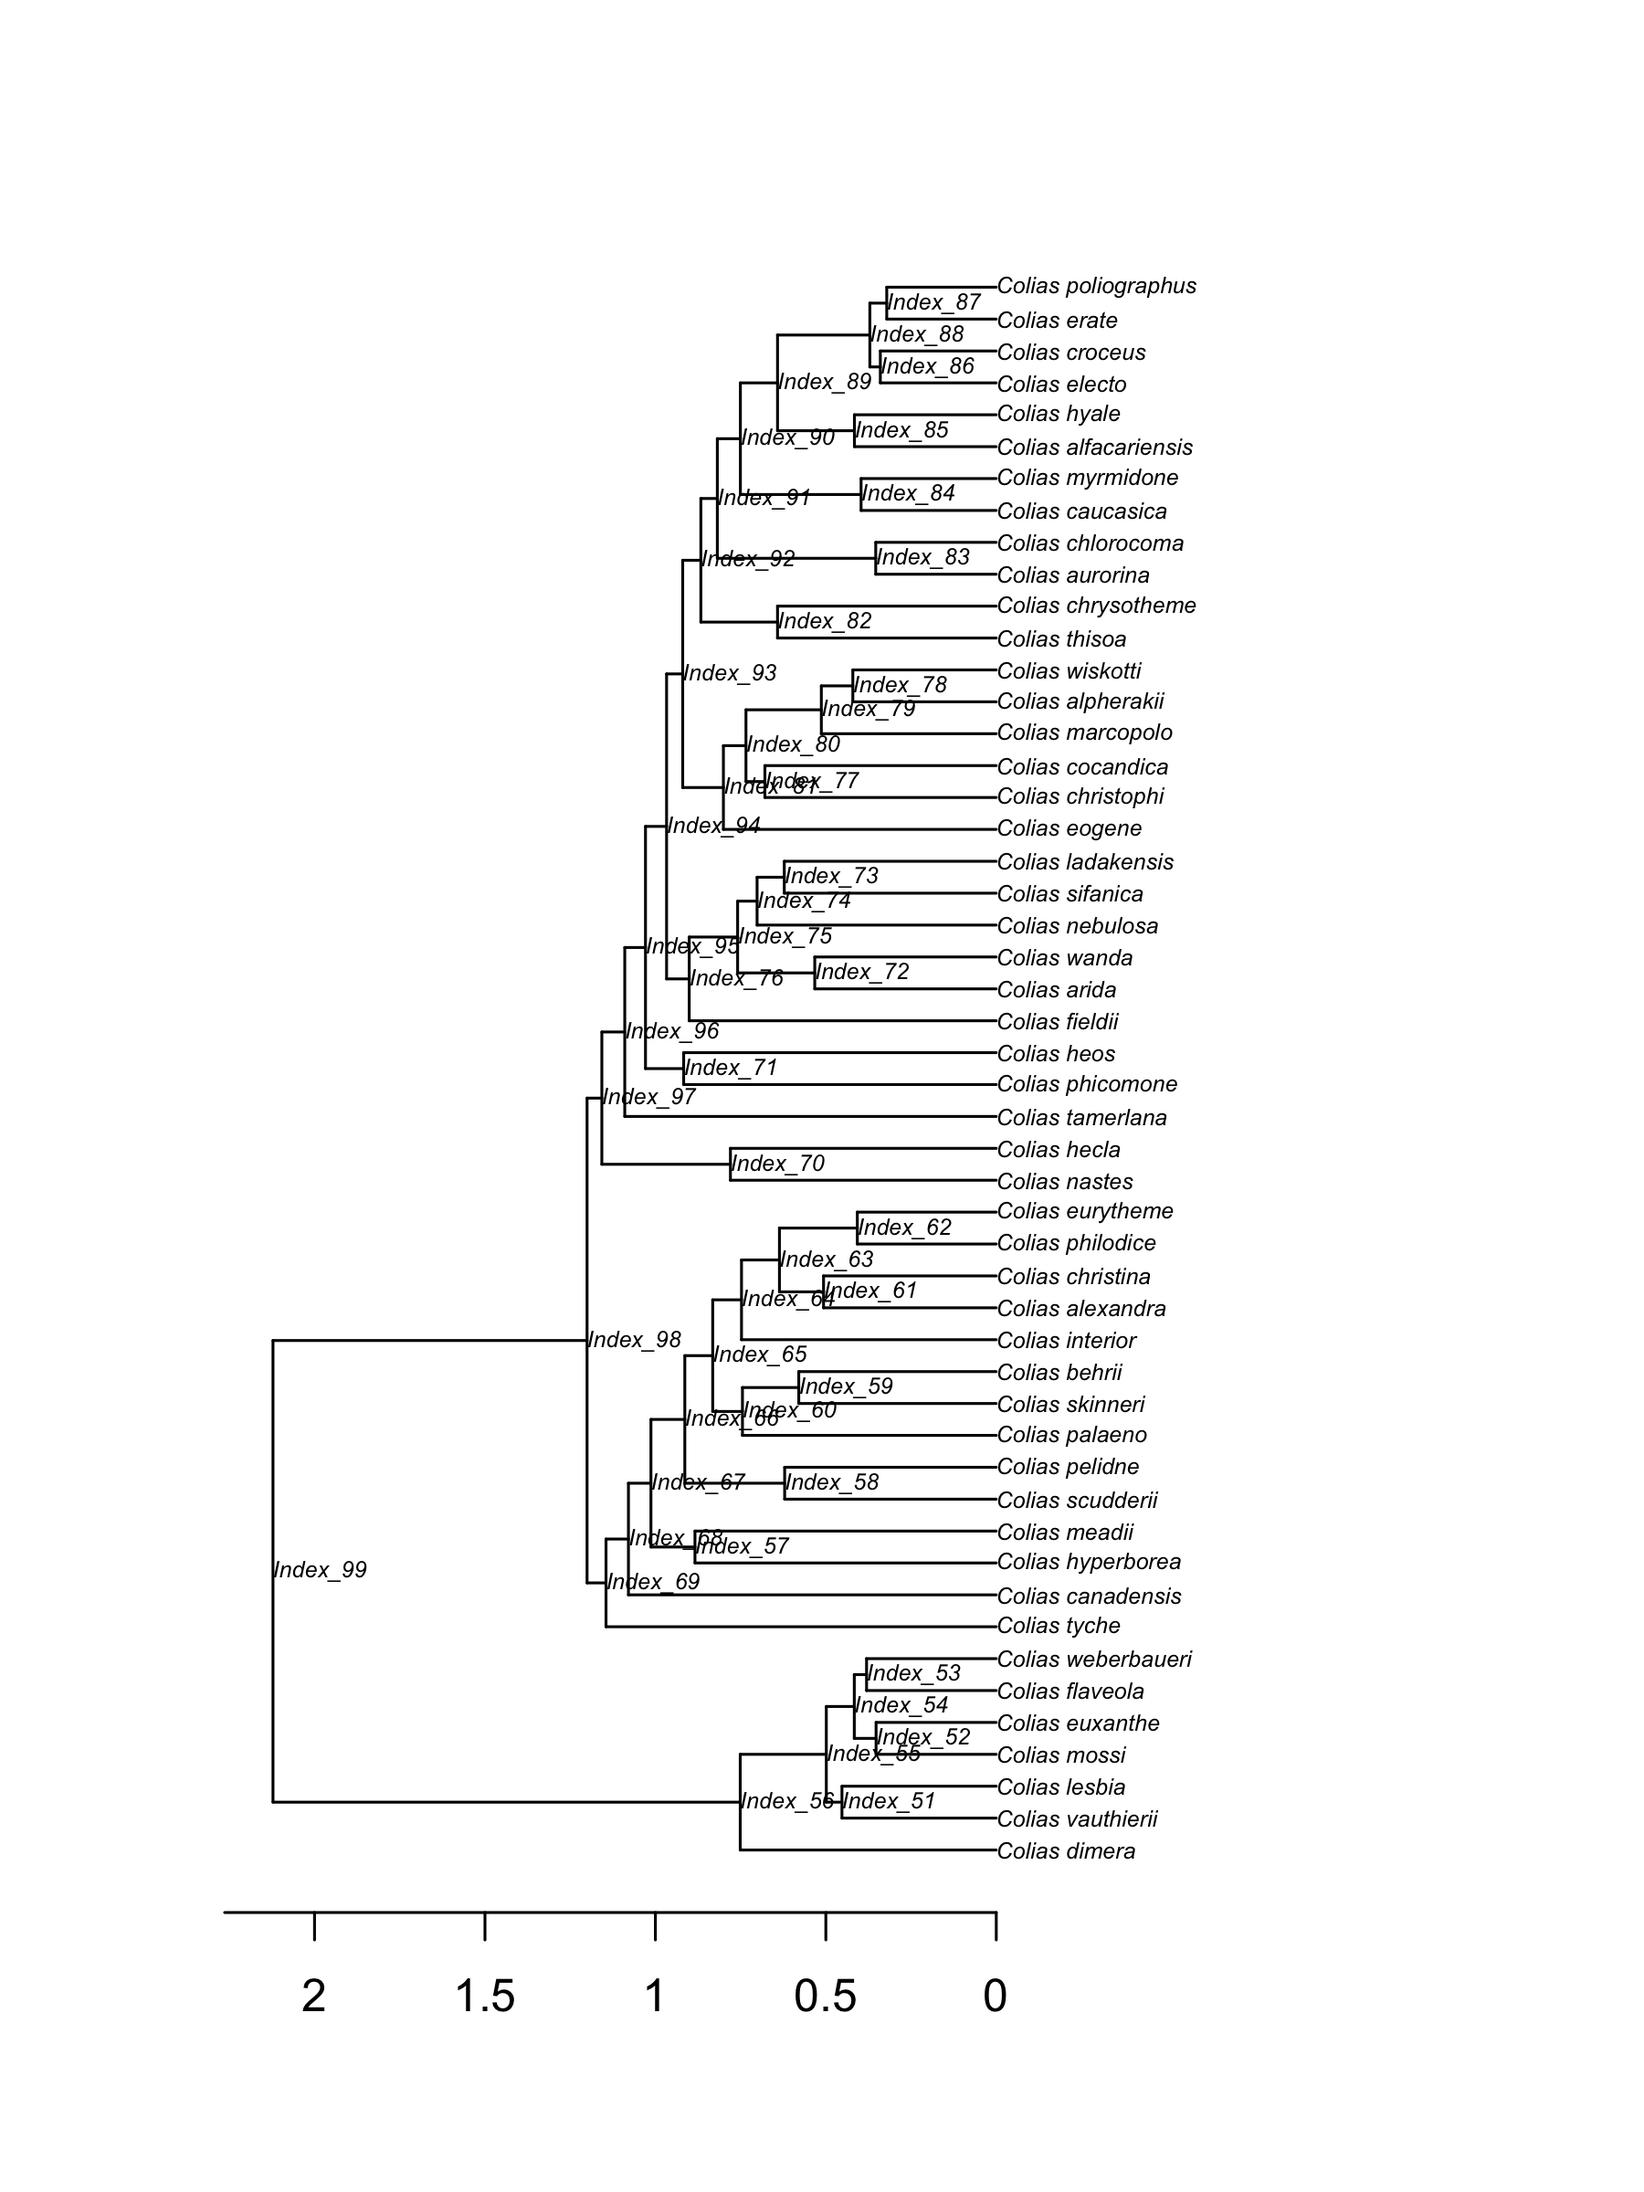
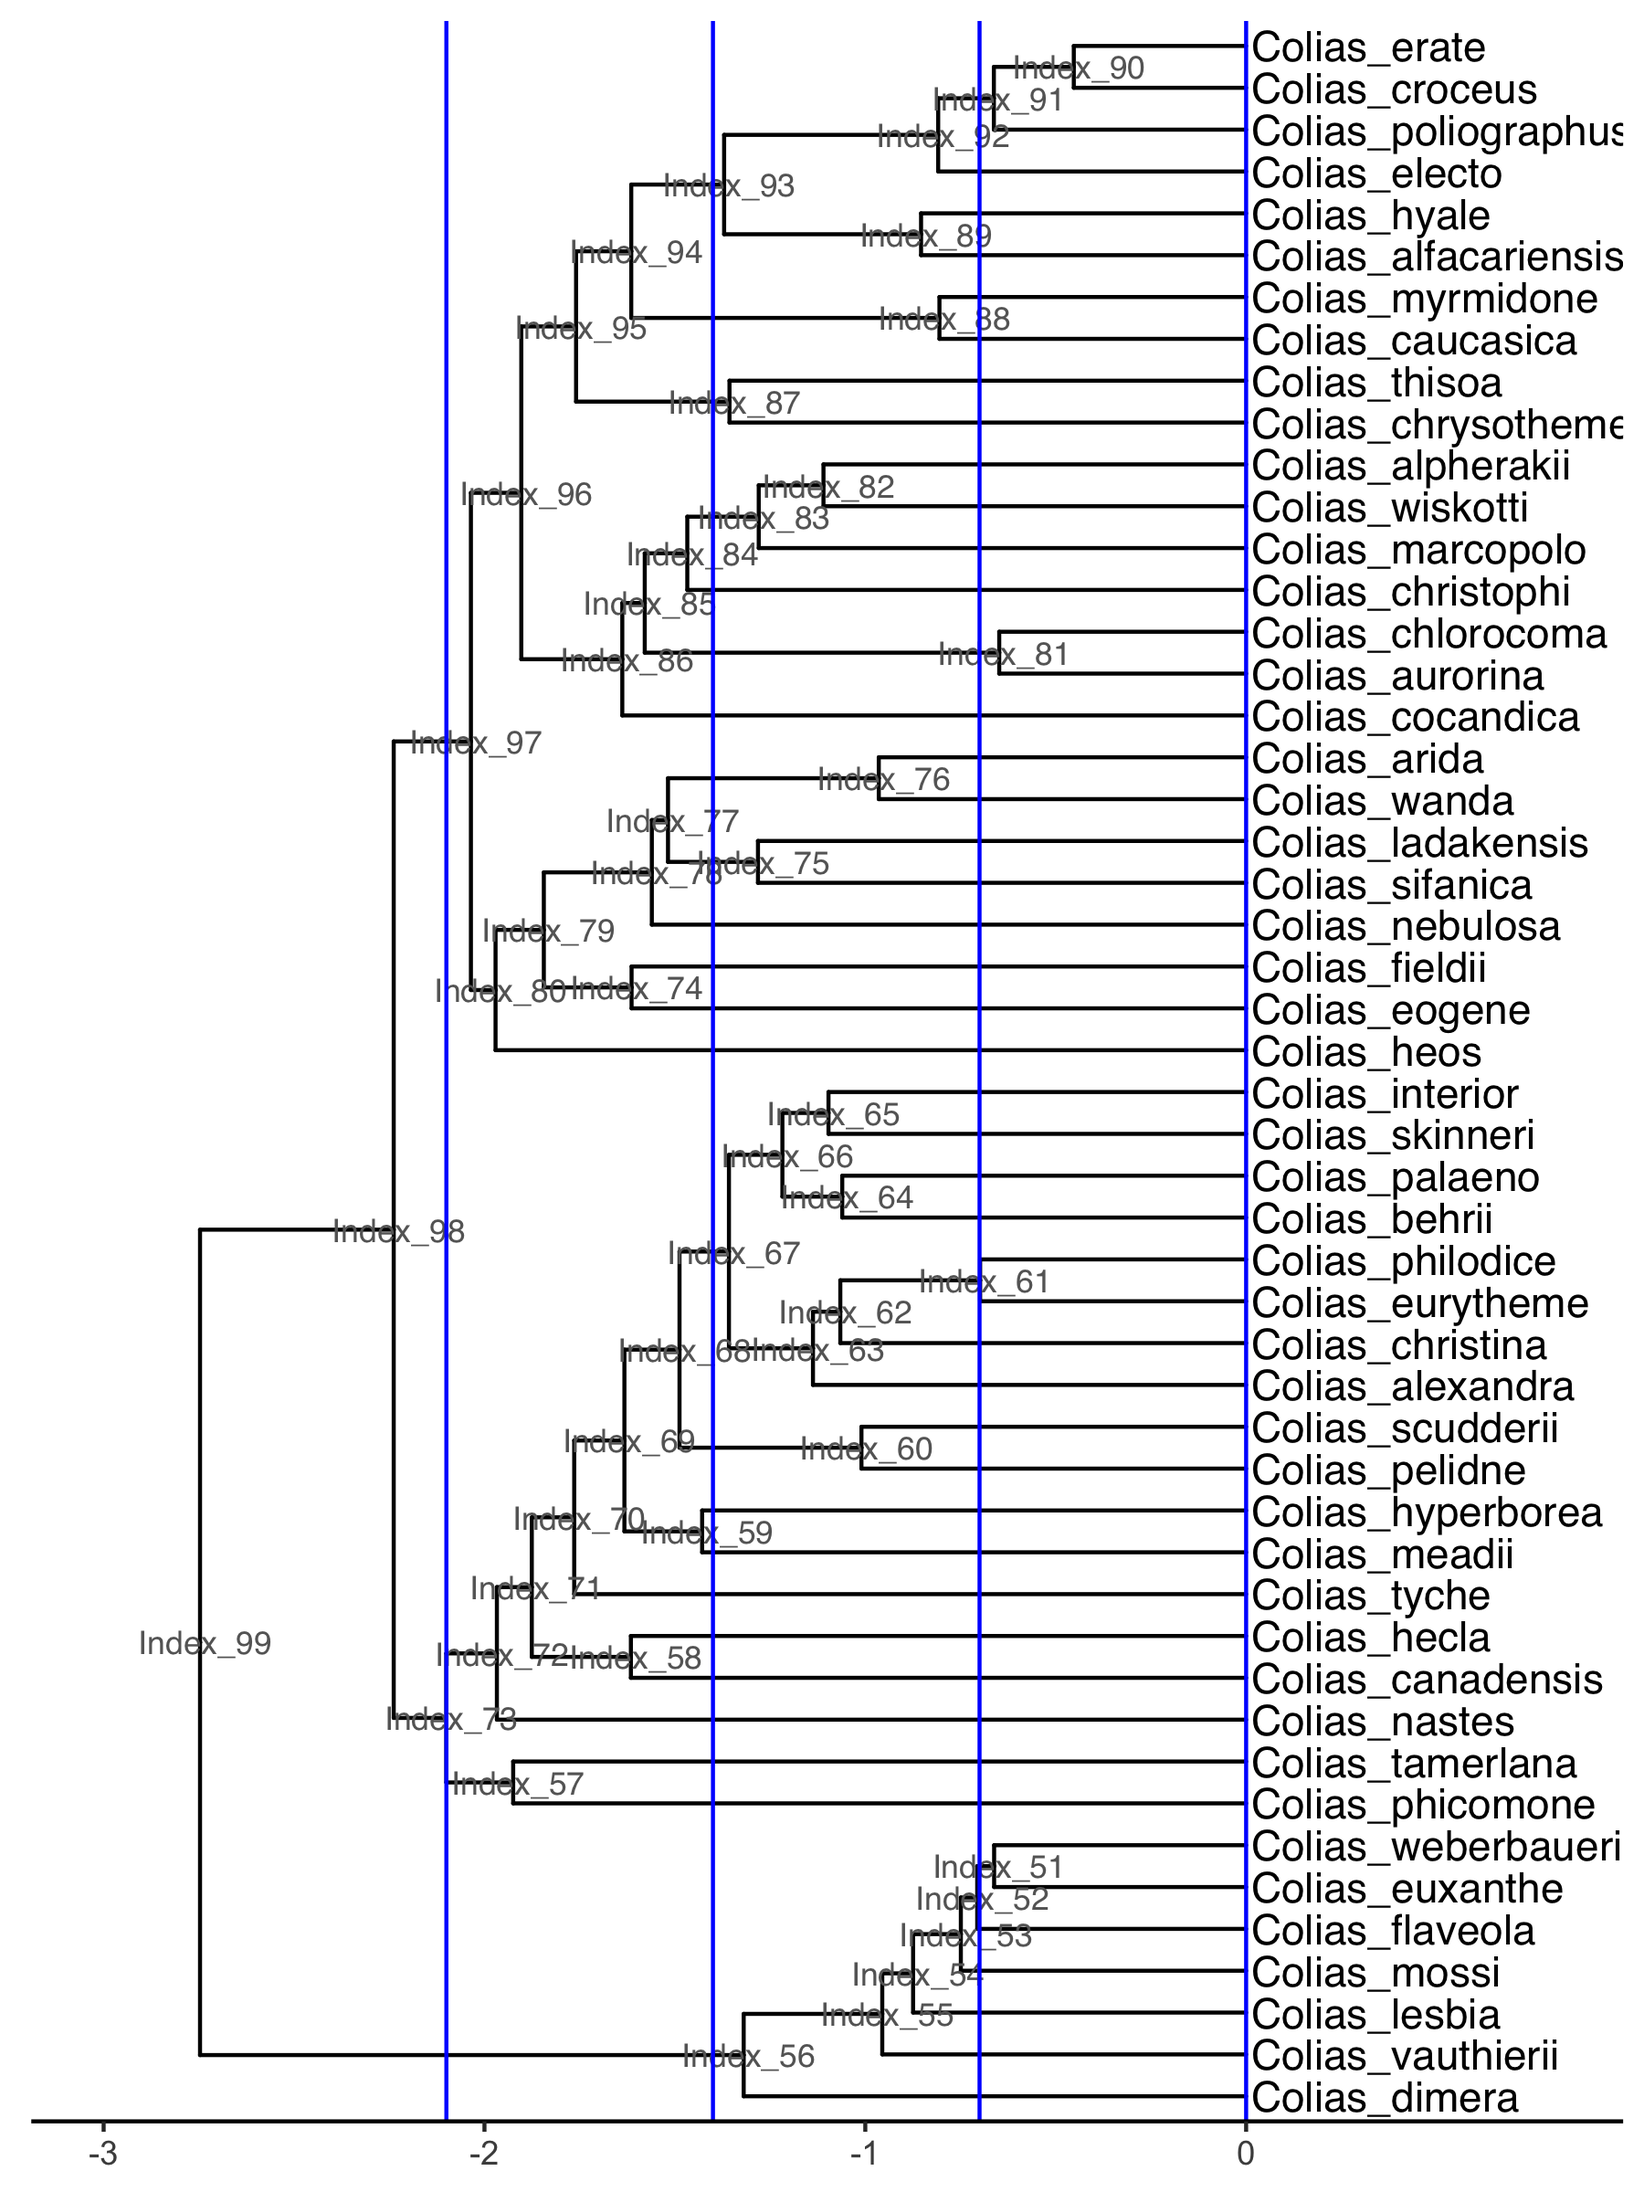
Rmarkdown until ancestral networks

diff --git a/Host_rep_evolution.md b/Host_rep_evolution.md
@@ -1,7 +1,7 @@
 Colias host repertoire evolution
 ================
 Mariana P Braga
-26 July, 2022
+27 July, 2022
 
 ------------------------------------------------------------------------
 
@@ -58,7 +58,7 @@ colnames(log1) <- colnames(log2) <- c("iteration","clock","beta", "gain", "loss"
 **Convergence test**
 
 ``` r
-its <- seq(50000,550000,1000)
+its <- seq(50000,500000,1000)
 
 chain1 <- filter(log1, iteration %in% its) %>% as.mcmc()
 chain2 <- filter(log2, iteration %in% its) %>% as.mcmc()
@@ -70,14 +70,14 @@ gelman.diag(mcmc.list(chain1, chain2))
     ## 
     ##           Point est. Upper C.I.
     ## iteration        NaN        NaN
-    ## clock          1.016       1.08
-    ## beta           0.999       1.00
-    ## gain           1.005       1.01
-    ## loss           1.005       1.01
+    ## clock           1.01       1.03
+    ## beta            1.00       1.00
+    ## gain            1.00       1.02
+    ## loss            1.00       1.02
     ## 
     ## Multivariate psrf
     ## 
-    ## 1.02
+    ## 1.01
 
 All values are very close to 1, so we are good to go.
 
@@ -97,7 +97,7 @@ ggplot(parameters, aes(parameter, value)) +
   theme_bw()
 ```
 
-<img src="Host_rep_evolution_files/figure-gfm/densities-1.png" width="70%" />
+<img src="Host_rep_evolution_files/figure-gfm/densities-1.png" width="50%" />
 
 ``` r
 parameters %>% 
@@ -189,15 +189,17 @@ count_events(history)
 ```
 
     ##       mean HPD95.lower HPD95.upper
-    ## 1 400.4711         335         462
+    ## 1 400.7938         337         462
 
 ``` r
 # How many events were host gains and how many host losses?
-count_gl(history)
+gl <- count_gl(history)
+# percentage of gains and losses
+gl/sum(gl)
 ```
 
-    ##    gains   losses 
-    ## 169.7405 230.7305
+    ##     gains    losses 
+    ## 0.4235553 0.5764447
 
 ``` r
 # Considering the number of events and the total length of the Colias phylogeny, 
@@ -206,7 +208,7 @@ effective_rate(history, tree)
 ```
 
     ##       mean HPD95.lower HPD95.upper
-    ## 1 5.759065    4.817543    6.643895
+    ## 1 5.763706    4.846305    6.643895
 
 #### Modules of the extant (present-day) network
 
@@ -215,19 +217,86 @@ effective_rate(history, tree)
 mod <- mycomputeModules(matrix)
 ```
 
+### Extant and ancestral networks
+
+**Time points of interest (ages)**
+
+The first step to reconstruct ancestral networks is to define the time
+points during Colias diversification that we want to look at.
+
 ``` r
-mod_list <- listModuleInformation(mod)[[2]]
-host_mods <- lapply(mod_list, function(x) data.frame(host = x[[2]]))
-host_mods <- dplyr::bind_rows(host_mods, .id = 'host_module')
-mod_order <- host_mods$host
+# visually determine interesting time points to reconstruct ancestral networks
+pt <- ggtree(tree) + 
+  geom_tiplab() + 
+  geom_nodelab(size = 3, color = "grey40") + 
+  theme_tree2()
 
-para_mods <- lapply(mod_list, function(x) data.frame(parasite = x[[1]]))
-para_mods <- dplyr::bind_rows(para_mods, .id = 'parasite_module')
-mod_order_para <- para_mods$parasite
+pt_rev <- revts(pt) + xlim(c(-3, 0.8))
 
-plot_extant_matrix(matrix, mod, 
-                   parasite_order = mod_order_para, 
-                   host_order = mod_order)
+pt_rev + geom_vline(xintercept = c(-2.1,-1.4,-0.7,0), col = "blue")
 ```
 
-![](Host_rep_evolution_files/figure-gfm/mod_ext_matrix-1.png)<!-- -->
+<img src="Host_rep_evolution_files/figure-gfm/tree-1.png" width="60%" />
+
+``` r
+# choose time points
+ages <- c(0,0.7,1.4,2.1)
+```
+
+I’ve chosen 2.1, 1.4, and 0.7, which means 2.1 Ma, 1.4 Ma and 700
+thousand years ago.
+
+**Interaction probability at given ages**
+
+Now we calculate the posterior probability of interaction between each
+host and each extant butterfly at each age in `ages`.
+
+``` r
+at_ages <- posterior_at_ages(history, ages, tree, host_tree)
+```
+
+**Summarize probabilities into ancestral networks**
+
+Make binary or weighted networks? Discard interactions with posterior
+probability \< threshold. We chose to reconstruct weighted networks with
+a threshold of
+
+``` r
+summary_networks <- get_summary_networks(at_ages, threshold = 0.9)
+
+# find modules in extant and ancestral networks
+modules_at_ages <- modules_across_ages(summary_networks, tree, extant_modules = mod)
+
+# save names of matched modules for extant network for other plots
+match_mod_ext <- modules_at_ages$matched_modules$nodes_and_modules_per_age %>% 
+  filter(age == 0) %>% 
+  select(name, module, type)
+
+# modules and submodules
+mods_pal <- sort(unique(modules_at_ages$matched_modules$original_and_matched_module_names$module_name))
+pal <- c("#edae49", "#d1495b", "#d86357", "#df7c52", 
+          "#9d5568", "#66a182", "#00798c", "#2e4057")
+pal_extant <- c("#edae49", "#d1495b", "#66a182", "#00798c", "#2e4057")
+```
+
+``` r
+mod_order <- match_mod_ext %>% filter(type == "host") %>% arrange(module) %>% pull(name)
+
+mod_order_para <- match_mod_ext %>% filter(type == "symbiont") %>% arrange(module) %>% pull(name)
+
+p_ext_mods <- plot_extant_matrix(matrix, match_mod_ext, 
+                   parasite_order = mod_order_para, 
+                   host_order = mod_order)
+p_ext_mods + scale_fill_manual(values = pal_extant)
+```
+
+<img src="Host_rep_evolution_files/figure-gfm/mod_ext_matrix-1.png" width="70%" />
+
+**Plot networks**
+
+``` r
+p_nets <- plot_ancestral_networks(summary_networks, modules_at_ages, tree, palette = pal, node_size = 2)
+wrap_plots(p_nets, heights = c(2,3), guides = "collect")
+```
+
+![](Host_rep_evolution_files/figure-gfm/ancestral_nets-1.png)<!-- -->
